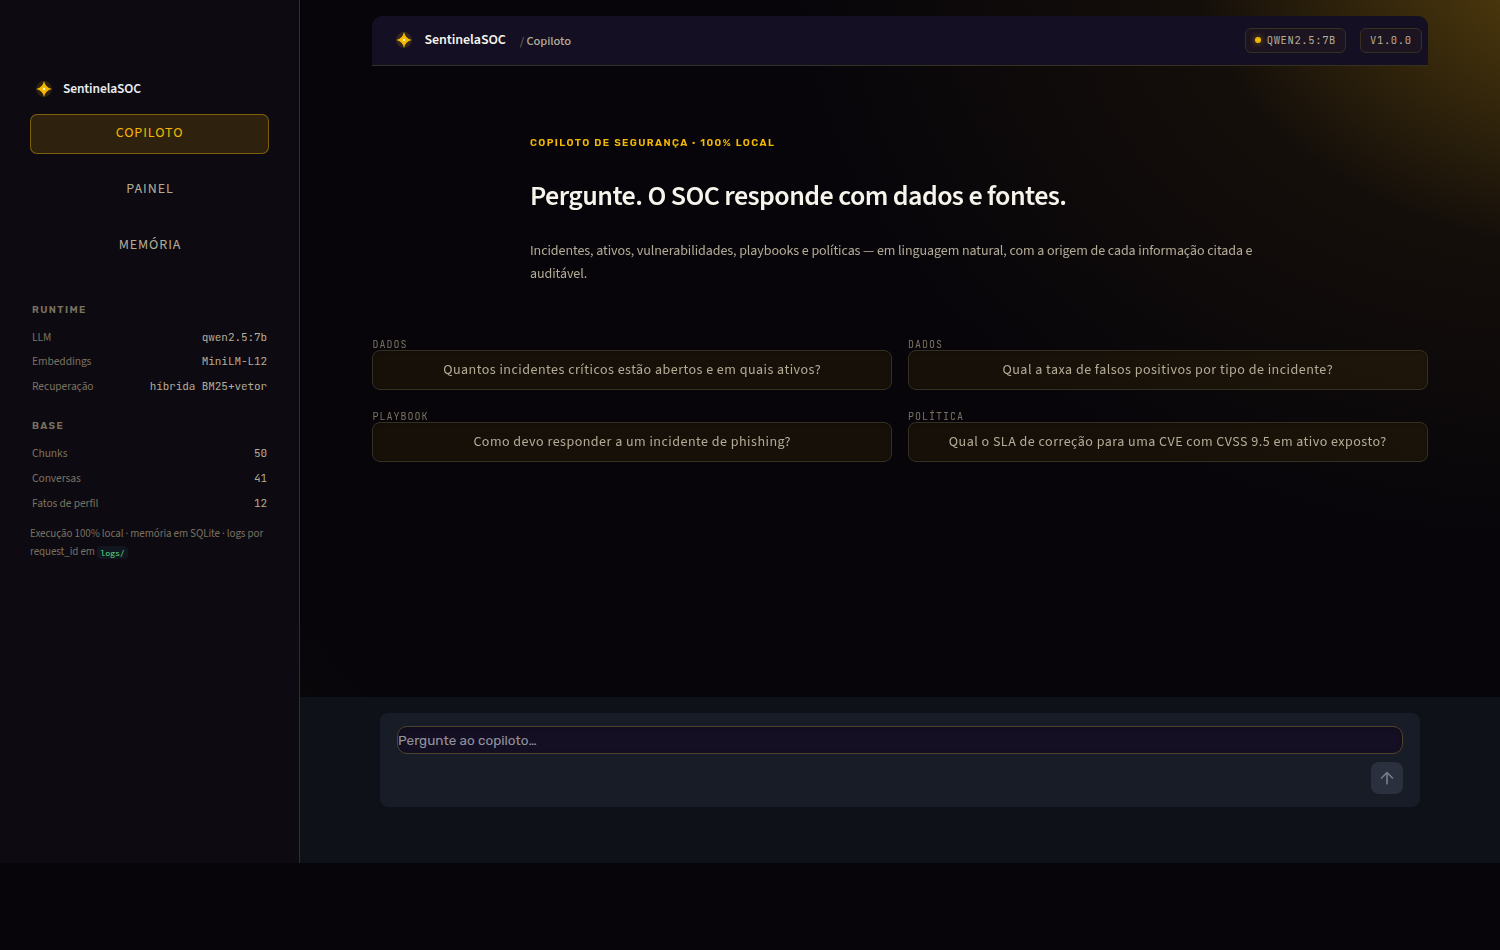
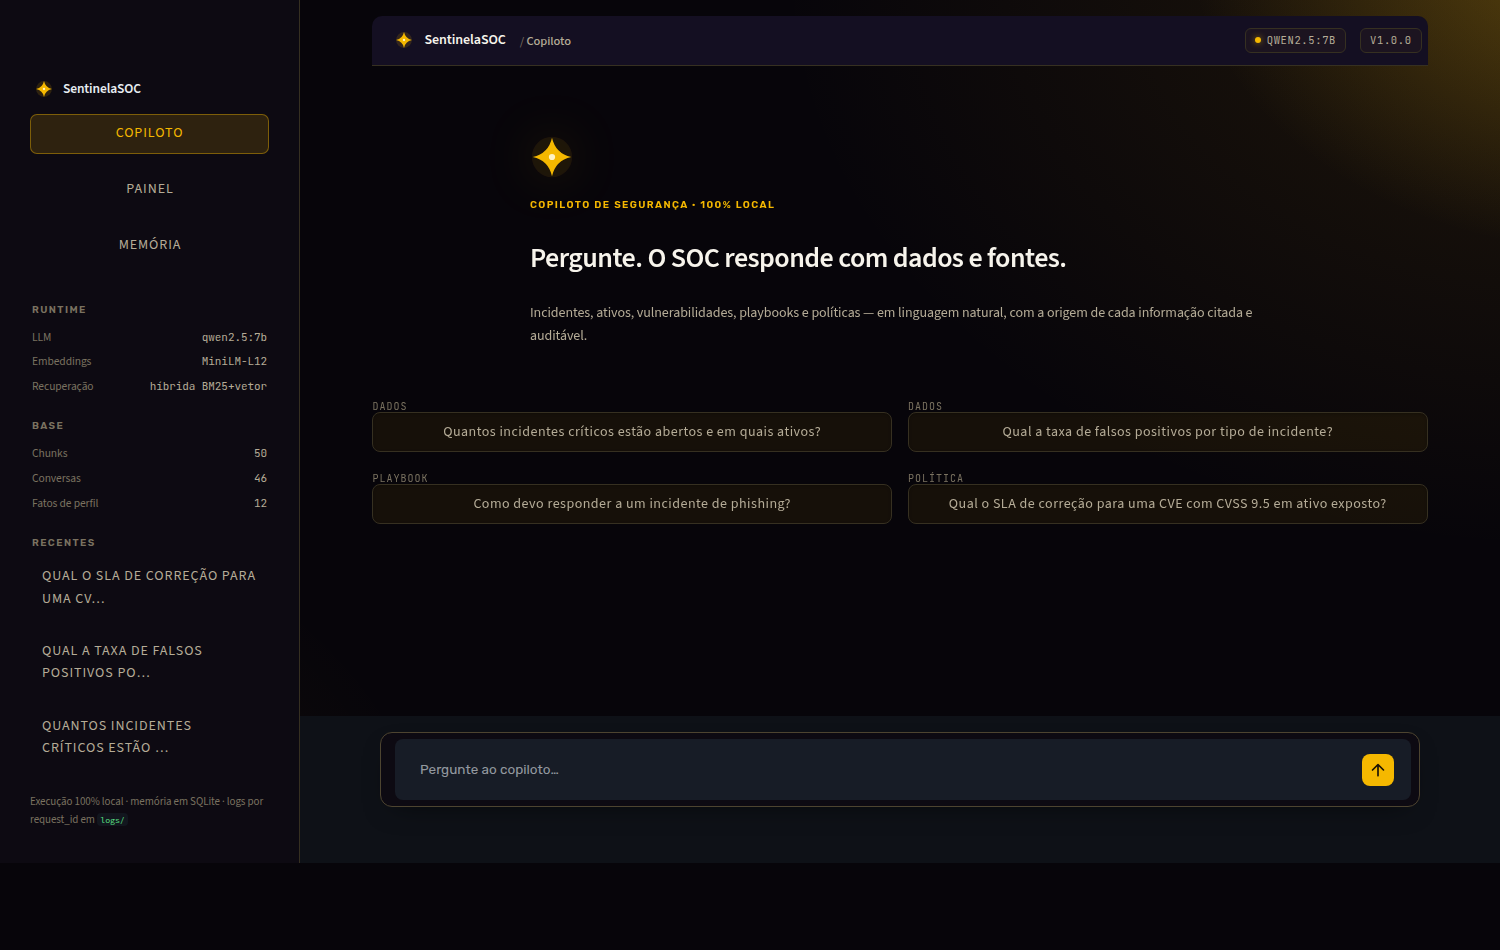
feat(web): product polish — thin dark scrollbars, elevated composer with gold send action, message entrance motion, chat-typography (not document), styled processing box, hero brand watermark, sidebar Recentes quick-access

diff --git a/src/sentinelasoc/web/shell.py b/src/sentinelasoc/web/shell.py
@@ -251,6 +251,49 @@ a {color: var(--ouro-hover);}
   color: var(--text-3) !important;}
 [data-testid="stMetricValue"] {font-weight: 600 !important; color: var(--text) !important;}
 [data-testid="stStatusWidget"] {display: none;}
+/* Scrollbars finas escuras */
+*::-webkit-scrollbar {width: 9px; height: 9px;}
+*::-webkit-scrollbar-track {background: transparent;}
+*::-webkit-scrollbar-thumb {background: #2b2415; border-radius: 8px; border: 2px solid #07050a;}
+*::-webkit-scrollbar-thumb:hover {background: #443821;}
+html {scrollbar-color: #2b2415 #07050a; scrollbar-width: thin;}
+::selection {background: rgba(245,184,0,.30); color: #fff;}
+@keyframes msg-in {from {opacity: 0; transform: translateY(6px);} to {opacity: 1; transform: none;}}
+[data-testid="stChatMessage"] {animation: msg-in .26s ease both;}
+[data-testid="stChatMessage"] h1, [data-testid="stChatMessage"] h2,
+[data-testid="stChatMessage"] h3, [data-testid="stChatMessage"] h4 {
+  font-size: 14.5px; font-weight: 600; margin: 14px 0 6px; color: var(--text);}
+[data-testid="stChatMessage"] ul, [data-testid="stChatMessage"] ol {
+  padding-left: 20px; margin: 8px 0;}
+[data-testid="stChatMessage"] li {margin: 3px 0;}
+[data-testid="stChatMessage"] blockquote {
+  border-left: 2px solid var(--bd-strong); color: var(--text-2);
+  padding: 2px 0 2px 12px; margin: 8px 0;}
+[data-testid="stChatMessage"] hr {border: none; border-top: 1px solid var(--bd); margin: 14px 0;}
+[data-testid="stChatMessage"] strong {color: var(--text); font-weight: 600;}
+div[data-testid="stChatInput"] {
+  background: #0d0a12; border: 1px solid var(--bd-strong); border-radius: 12px;
+  padding: 6px 8px 6px 14px; box-shadow: 0 10px 28px -14px rgba(0,0,0,.65);
+  transition: border-color .15s ease, box-shadow .15s ease;}
+div[data-testid="stChatInput"]:focus-within {
+  border-color: rgba(245,184,0,.5);
+  box-shadow: 0 0 0 3px rgba(245,184,0,.07), 0 10px 28px -14px rgba(0,0,0,.65);}
+[data-testid="stChatInput"] textarea, div[data-testid="stChatInput"] textarea {
+  border: none !important; background: transparent !important;
+  box-shadow: none !important; padding: 8px 0 !important;}
+div[data-testid="stChatInput"] button {
+  background: var(--ouro) !important; color: #191204 !important;
+  border: none !important; border-radius: 8px !important; padding: 6px 10px !important;}
+div[data-testid="stChatInput"] button:hover {background: var(--ouro-hover) !important;}
+.composer-hint {
+  text-align: center; font-family: var(--mono); font-size: 10px;
+  color: var(--text-3); letter-spacing: .08em; margin-top: 8px; text-transform: uppercase;}
+[data-testid="stStatus"] {
+  background: var(--surface-1) !important; border: 1px solid var(--bd) !important;
+  border-radius: 9px !important;}
+.hero-mark {margin-bottom: 18px;
+  filter: drop-shadow(0 0 26px rgba(245,184,0,.28));}
+.hero-mark svg {display: block;}
 </style>
 """
 
@@ -324,6 +367,23 @@ def sidebar_shell(page: str) -> None:
         f"<span class='v'>{len(memory.fatos_perfil())}</span></div>",
         unsafe_allow_html=True,
     )
+    from sentinelasoc import memory as _mem
+
+    recentes = _mem.listar_conversas(3)
+    if recentes:
+        st.markdown("<div class='side-h microlabel'>Recentes</div>", unsafe_allow_html=True)
+        for conv in recentes:
+            atual = conv["id"] == st.session_state.get("conversa_id")
+            if st.button(
+                (conv["titulo"][:34] + ("…" if len(conv["titulo"]) > 34 else "")),
+                key=f"rec_{conv['id']}",
+                use_container_width=True,
+                type="primary" if atual else "secondary",
+            ):
+                st.session_state["conversa_id"] = conv["id"]
+                st.session_state["mensagens"] = _mem.carregar_mensagens(conv["id"])
+                st.query_params["page"] = "copiloto"
+                st.rerun()
     st.markdown(
         "<div class='side-note'>Execução 100% local · memória em SQLite · "
         "logs por request_id em <code>logs/</code></div>",

diff --git a/src/sentinelasoc/web/copiloto.py b/src/sentinelasoc/web/copiloto.py
@@ -95,7 +95,13 @@ def render() -> None:
     # ── Estado vazio: hero + sugestoes ──
     if not st.session_state.mensagens and not st.session_state.pergunta_pendente:
         st.markdown(
-            "<div class='hero'><div class='microlabel' style='color:#f5b800'>"
+            "<div class='hero'><div class='hero-mark'>"
+            "<svg width='44' height='44' viewBox='0 0 24 24' fill='none'>"
+            "<circle cx='12' cy='12' r='11' fill='#f5b800' opacity='.08'/>"
+            "<path d='M12 1.5 Q13.9 10.1 22.5 12 Q13.9 13.9 12 22.5 Q10.1 13.9 1.5 12 "
+            "Q10.1 10.1 12 1.5 Z' fill='#f5b800'/>"
+            "<circle cx='12' cy='12' r='1.7' fill='#fff3c4'/></svg></div>"
+            "<div class='microlabel' style='color:#f5b800'>"
             "Copiloto de segurança · 100% local</div>"
             "<h1>Pergunte. O SOC responde com dados e fontes.</h1>"
             "<p>Incidentes, ativos, vulnerabilidades, playbooks e políticas — em linguagem "
@@ -194,6 +200,11 @@ def render() -> None:
     if nova:
         st.session_state.pergunta_pendente = nova
         st.rerun()
+    if st.session_state.mensagens:
+        st.markdown(
+            "<div class='composer-hint'>Enter envia · dados e fontes sempre citados</div>",
+            unsafe_allow_html=True,
+        )
 
 
 def _botao_nova_conversa() -> None:
